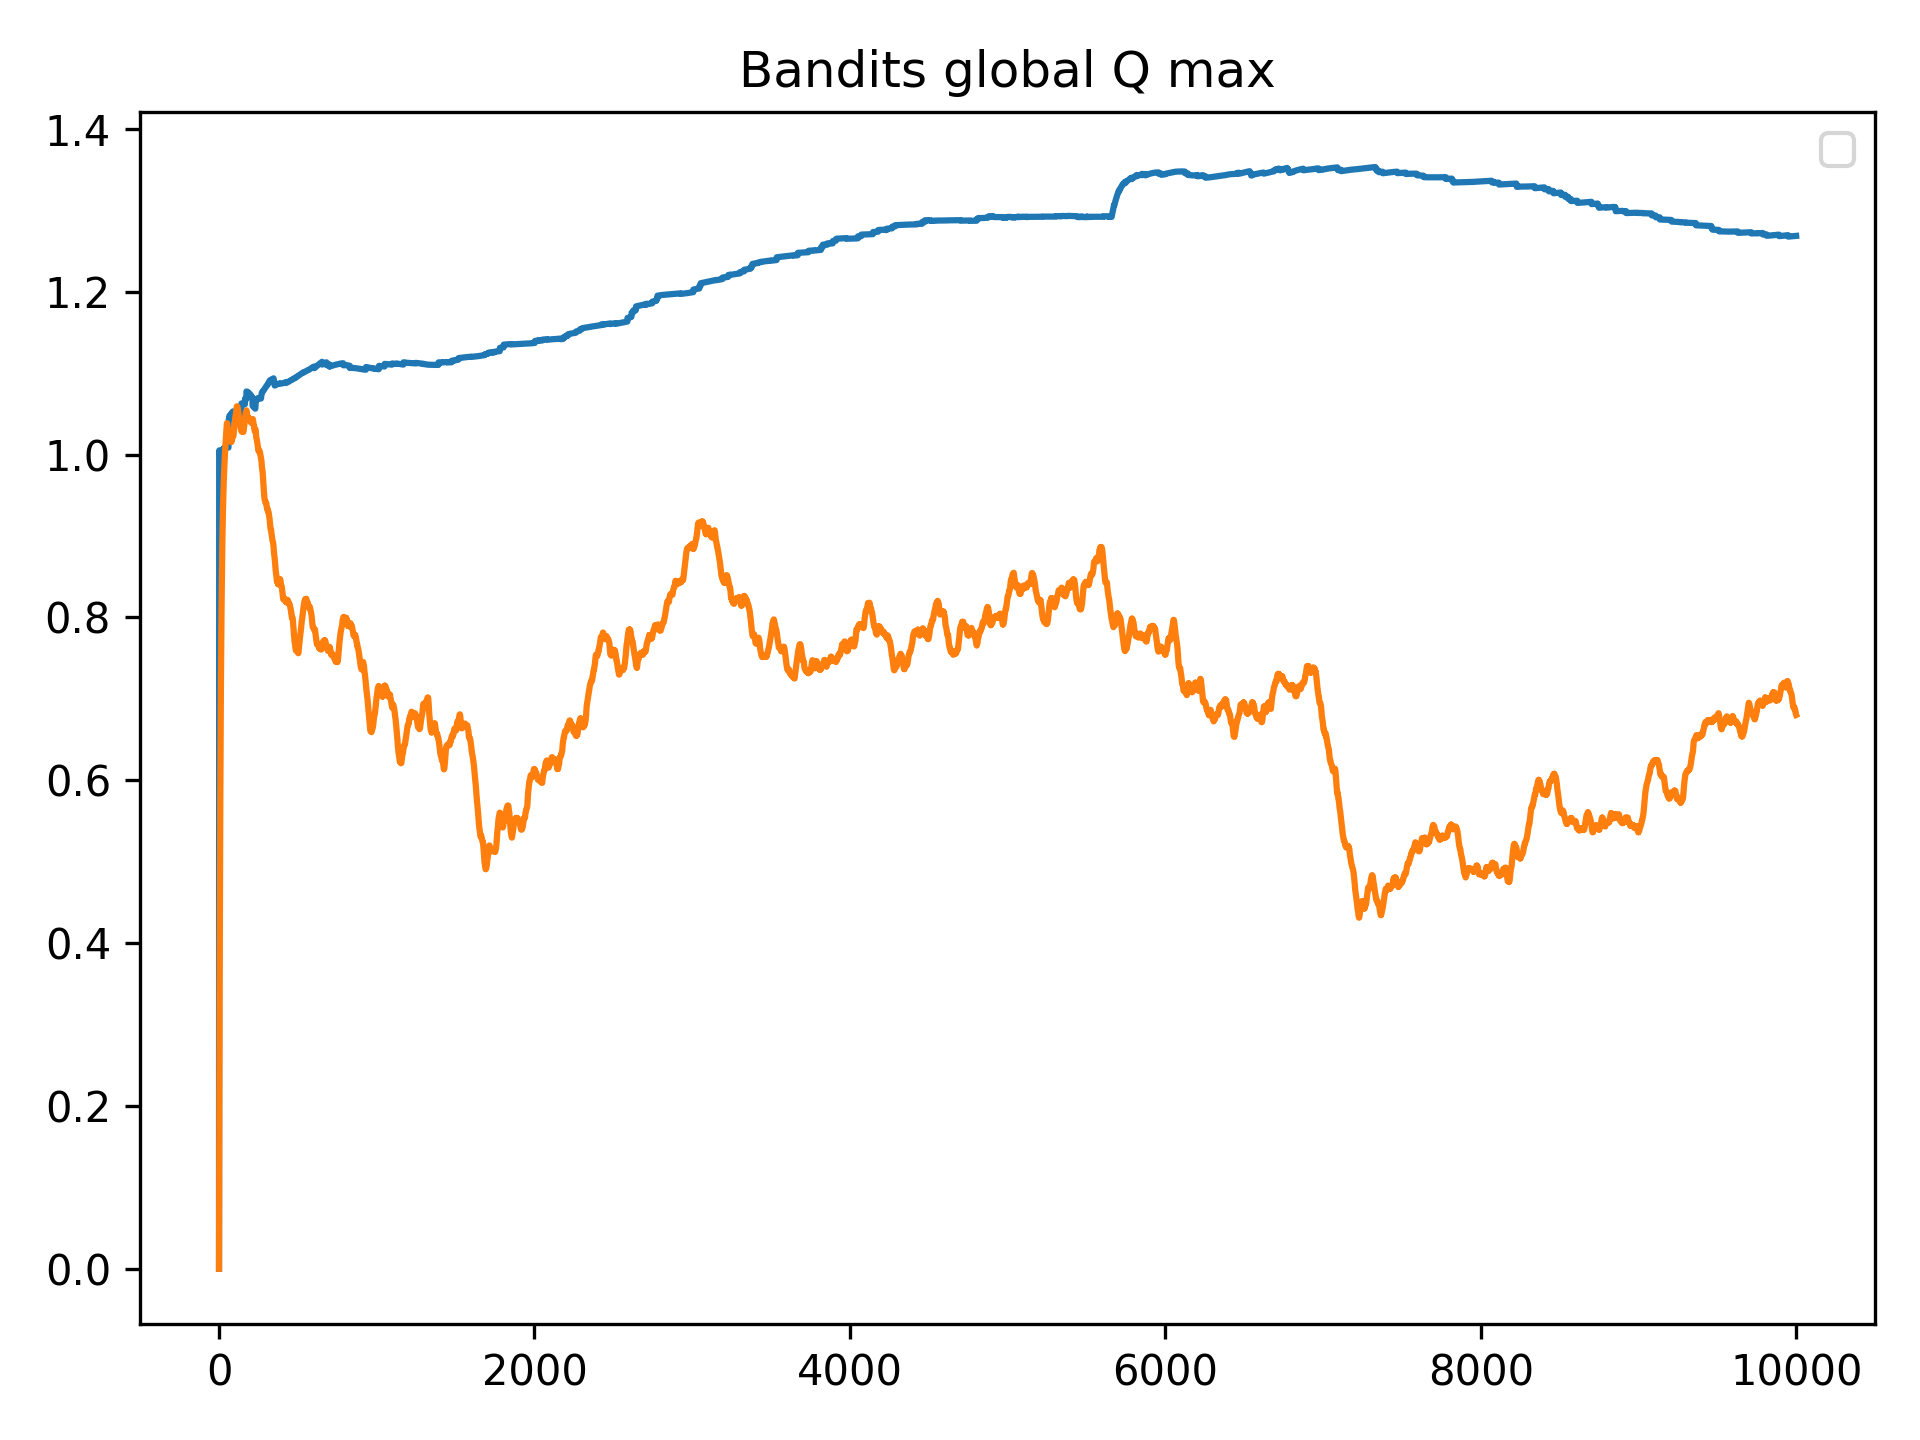
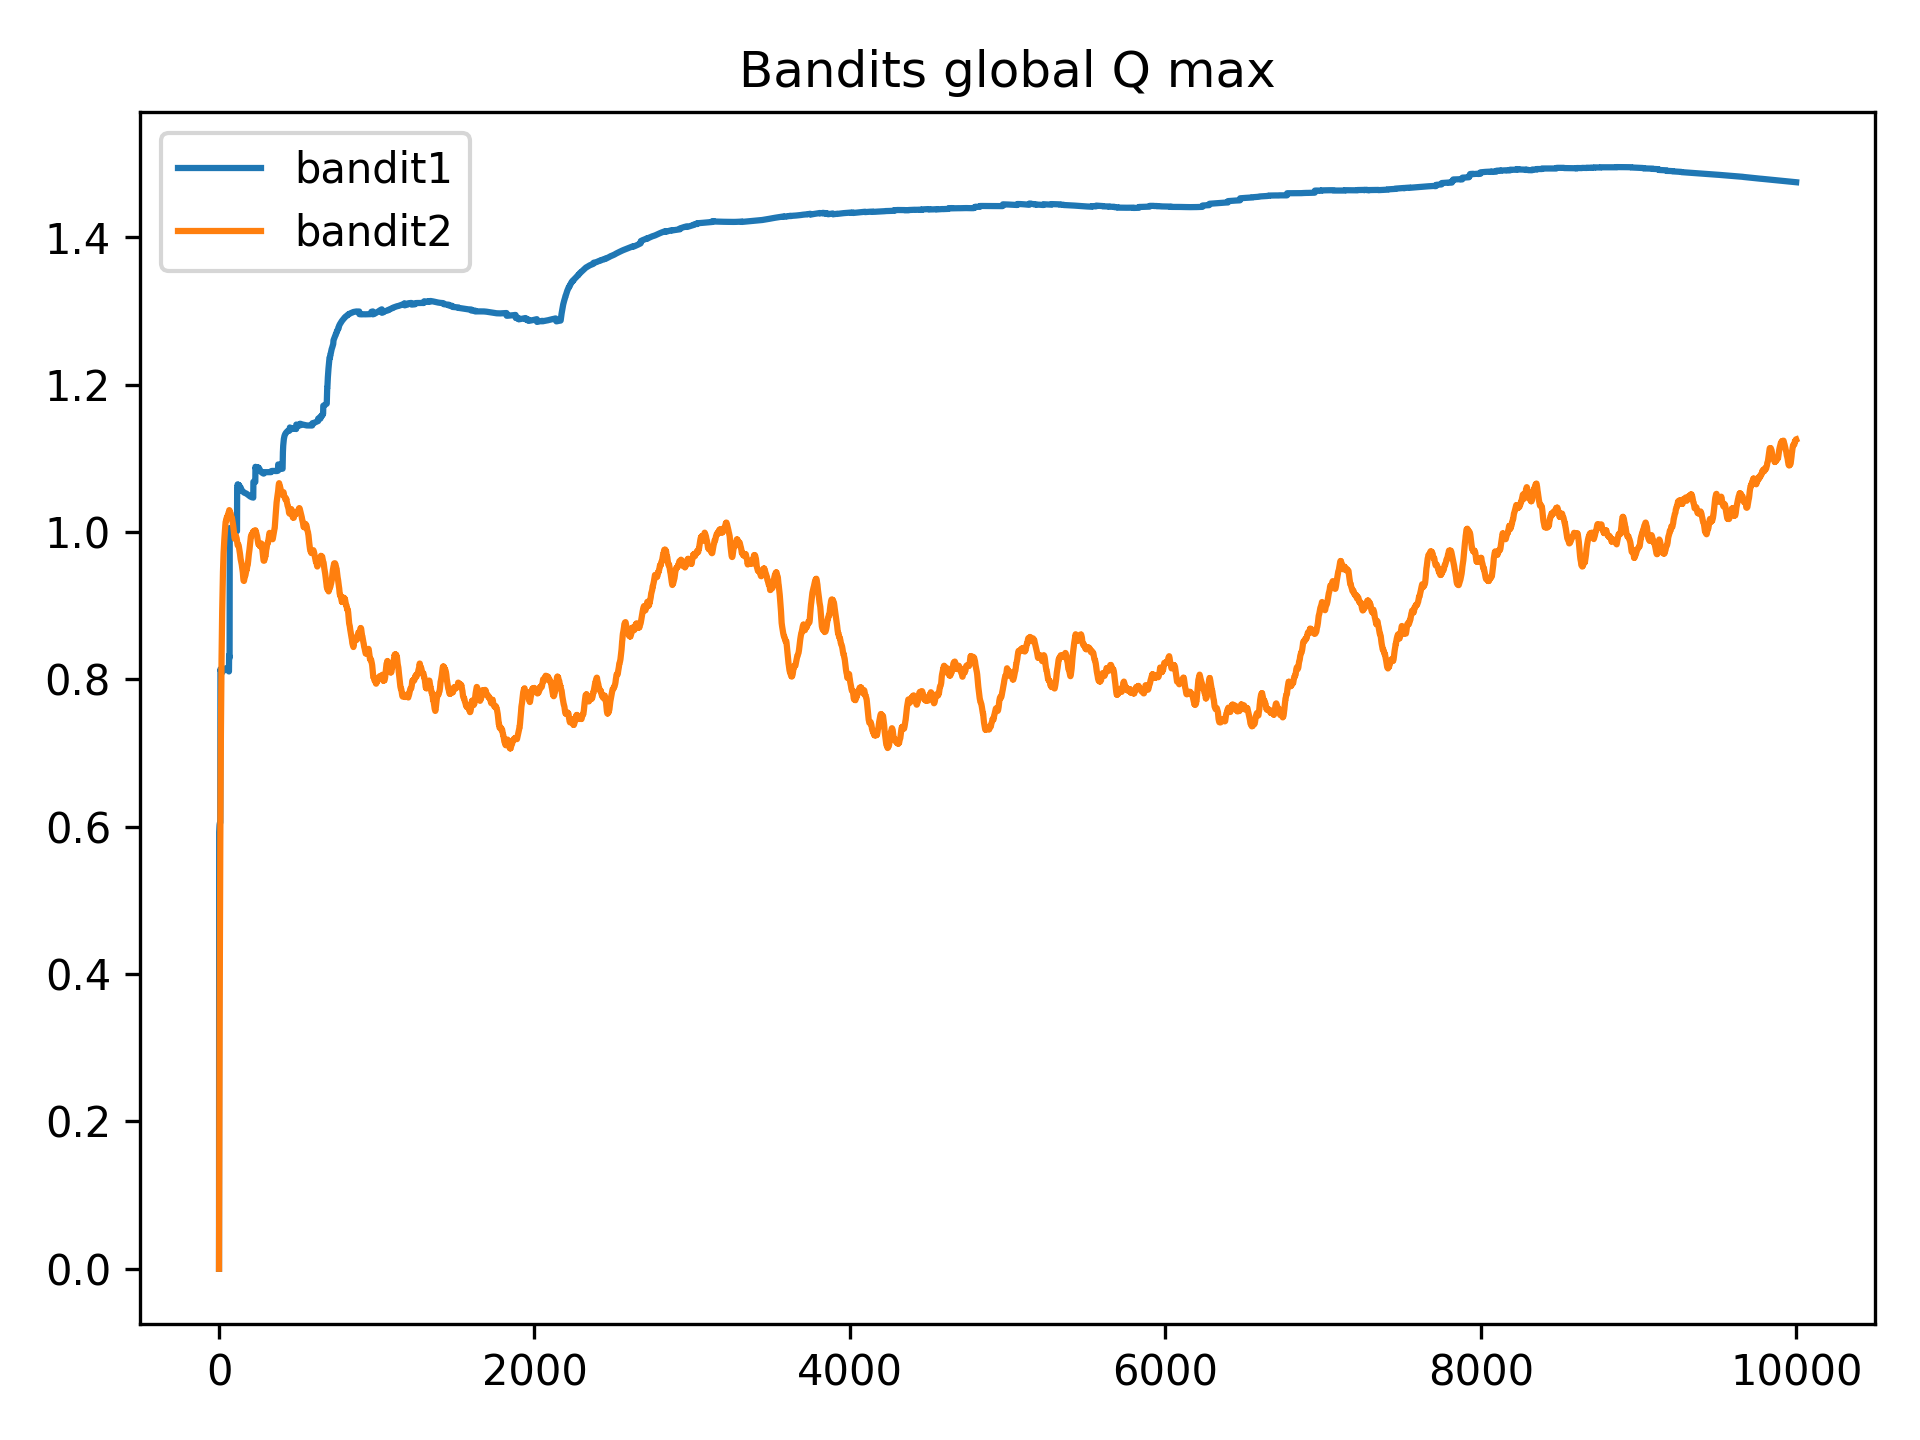
More work

diff --git a/src/CS6900/exercise_2_5_try2.py b/src/CS6900/exercise_2_5_try2.py
@@ -48,20 +48,33 @@ class Bandits:
         return action
 
     def get_Q_max(self):
-        Q_max_arr = np.zeros(n_steps)
+        # Get the maximum expected reward at each step in a run. Useful because
+        # we can plot it and see which algorithm has a larger EXPECTED reward
+        Q_max_arr = np.zeros(self.n_steps)
         for i in range(self.n_steps):
             Q_max_arr[i] = np.max(self.Q[:, i])
         return Q_max_arr
 
     def get_global_Q_max(self):
+        # Same as above, but first we average every run together and then get
+        # the largest expected turn of each step of that
         Q_global_mean = np.mean(self.Q_global, axis=2)
-        Q_global_max = np.zeros((n_steps))
+        Q_global_max = np.zeros((self.n_steps))
 
         for i in range(self.n_steps):
             Q_global_max[i] = np.max(Q_global_mean[:, i])
         return Q_global_max
 
 #-----------------------------------------------------------------------------
+
+
+
+def get_reward(mu_list, sigma_list):
+    # Get an array with the rewards of each lever for this time step
+    reward = np.zeros(len(mu_list))
+    for i in range(len(mu_list)):
+        reward[i] = np.random.normal(mu_list[i], sigma_list[i], 1)
+    return reward
 
 def plot_levers(mu_list, sigma_list, run_num = 0):
     num_samps = 100
@@ -79,23 +92,6 @@ def plot_levers(mu_list, sigma_list, run_num = 0):
         plt.title("Levers at end of run " + str(run_num))
         modules.easy_plots.save_fig("levers_run_"+str(run_num))
 
-def get_reward(mu_list, sigma_list):
-    # Get an array with the rewards of each lever for this time step
-    reward = np.zeros(len(mu_list))
-    for i in range(len(mu_list)):
-        reward[i] = np.random.normal(mu_list[i], sigma_list[i], 1)
-    return reward
-
-def plot_globals_bandits(list_of_bandits):
-
-    plt.figure()
-    for i in list_of_bandits:
-        q_max = i.get_global_Q_max()
-        plt.plot(q_max)
-    plt.legend()
-    plt.title("Bandits global Q max")
-    modules.easy_plots.save_fig("Q_global_max")
-
 def plot_bandits(list_of_bandits, lever_mu, lever_sigma):
     
     plt.figure()
@@ -106,6 +102,16 @@ def plot_bandits(list_of_bandits, lever_mu, lever_sigma):
     plt.legend()
     plt.title("Bandits for run " + str(Bandits.run))
     modules.easy_plots.save_fig("run_"+ str(Bandits.run))
+
+def plot_globals_bandits(list_of_bandits):
+
+    plt.figure()
+    for i in list_of_bandits:
+        q_max = i.get_global_Q_max()
+        plt.plot(q_max, label=i.name)
+    plt.legend()
+    plt.title("Bandits global Q max")
+    modules.easy_plots.save_fig("Q_global_max")
 
 
 """
@@ -171,8 +177,6 @@ for j in range(n_runs):
 
         Bandits.step = Bandits.step + 1
         lever_mu = lever_mu + np.random.normal(random_mu, random_sigma, n_arms) # Walk levers
-
-
 
 
     Bandits.run = Bandits.run + 1
